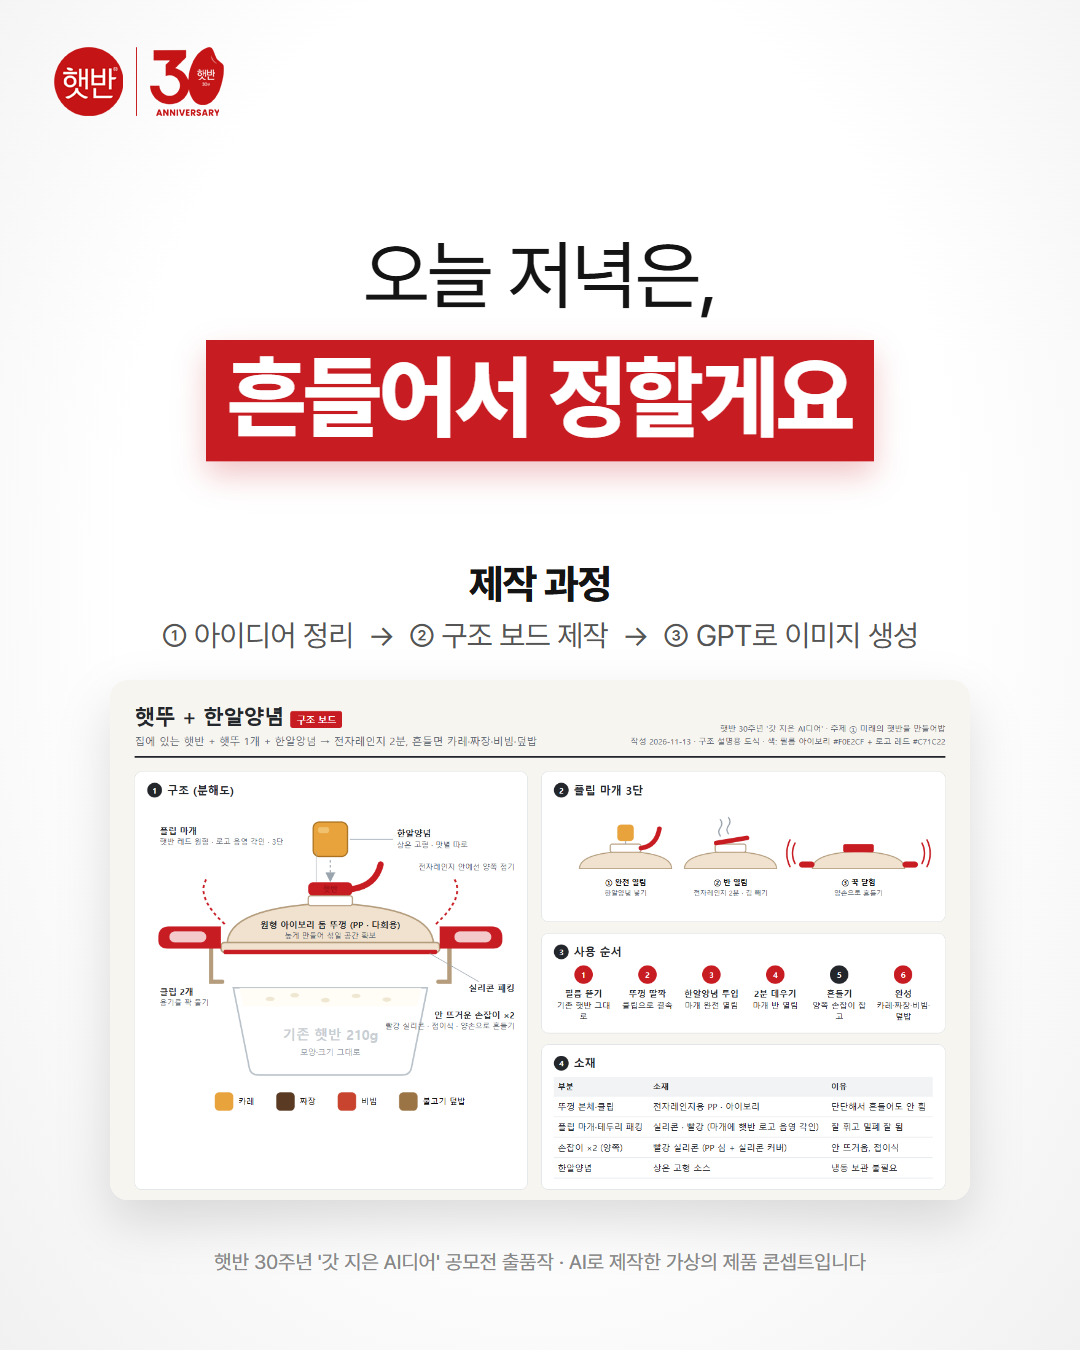
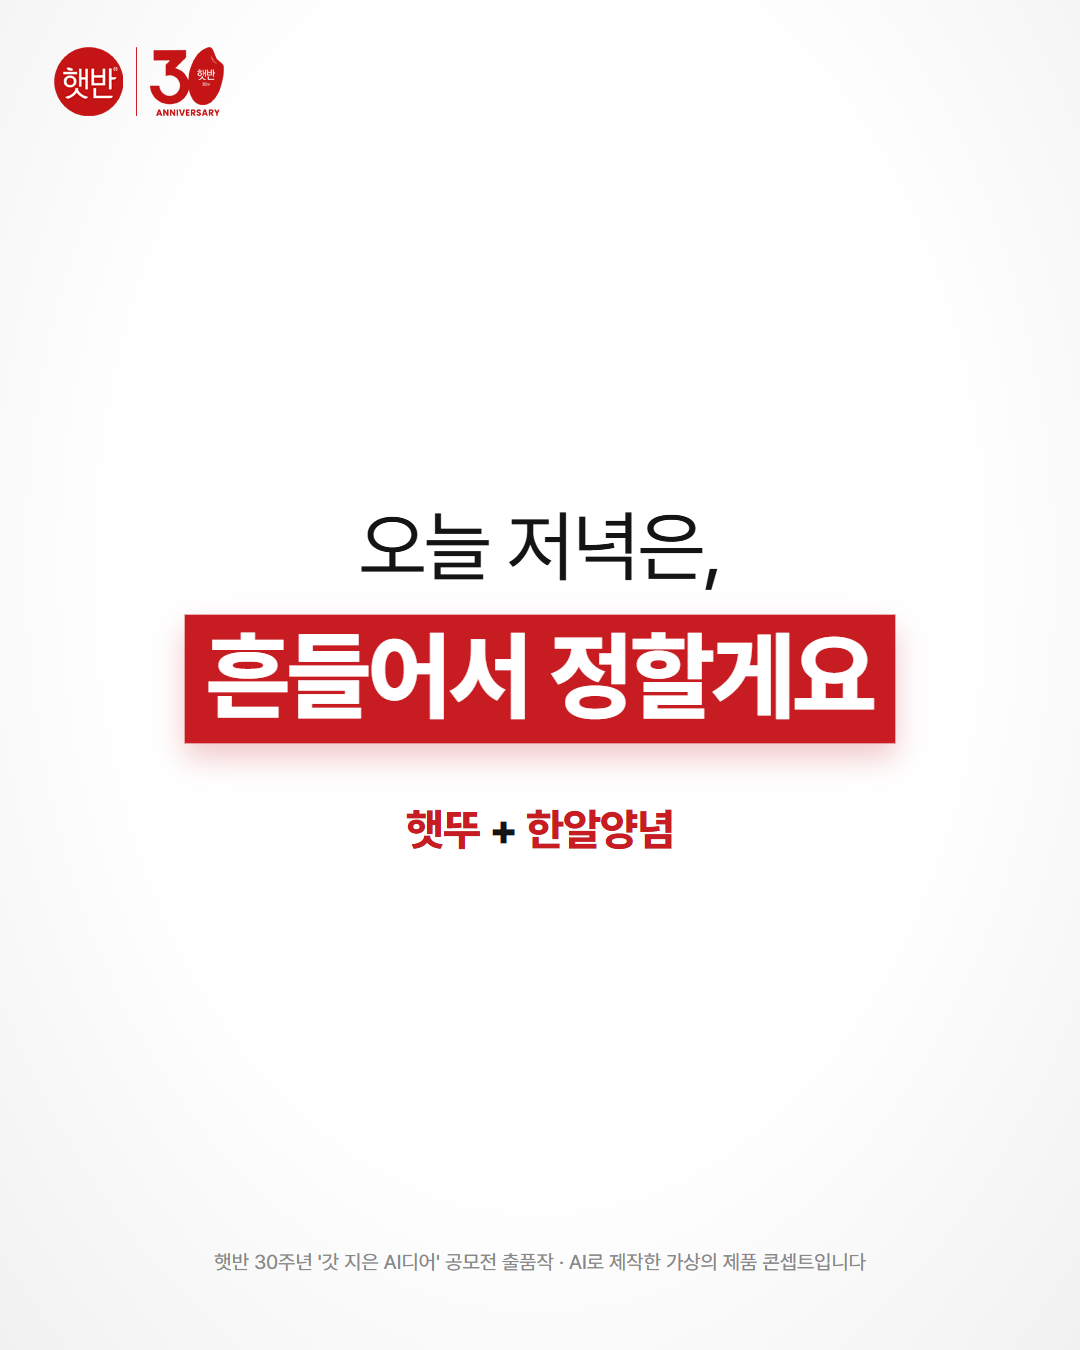
Auto-sync: 2026-11-13 16:56:10

diff --git a/햇반공모전/캐러셀_슬라이드.html b/햇반공모전/캐러셀_슬라이드.html
@@ -75,18 +75,14 @@ body{background:#ddd;font-family:Pretendard,"Malgun Gothic",sans-serif;color:var
   </div>
 </section>
 
-<!-- 12 마무리 + 제작 과정 -->
+<!-- 12 마무리 -->
 <section class="slide" id="s12">
   <div class="logo"><img src="참고이미지/햇반30로고.png"></div>
-  <div class="center" style="top:230px">
-    <div class="h-light" style="font-size:76px">오늘 저녁은,</div>
-    <div style="margin-top:20px"><span class="box" style="font-size:90px">흔들어서 정할게요</span></div>
+  <div class="center" style="top:500px">
+    <div class="h-light" style="font-size:78px">오늘 저녁은,</div>
+    <div style="margin-top:22px"><span class="box" style="font-size:96px">흔들어서 정할게요</span></div>
+    <div class="h-bold" style="font-size:44px;margin-top:60px;letter-spacing:-1px"><span style="color:var(--red)">햇뚜</span> + <span style="color:var(--red)">한알양념</span></div>
   </div>
-  <div class="center" style="top:560px">
-    <div class="h-bold" style="font-size:40px;letter-spacing:-1px">제작 과정</div>
-    <div style="font-size:30px;color:var(--sub);margin-top:10px;letter-spacing:-.5px">① 아이디어 정리 &nbsp;→&nbsp; ② 구조 보드 제작 &nbsp;→&nbsp; ③ GPT로 이미지 생성</div>
-  </div>
-  <div class="board" style="top:680px"><img src="햇반큐브캡_중간컨펌.png"></div>
   <div class="center" style="top:1250px"><span class="cap">햇반 30주년 '갓 지은 AI디어' 공모전 출품작 · AI로 제작한 가상의 제품 콘셉트입니다</span></div>
 </section>
 

diff --git a/햇반공모전/햇반출품1_제미나이.md b/햇반공모전/햇반출품1_제미나이.md
@@ -1,0 +1,52 @@
+# 햇반출품1 제미나이 프롬프트 (P2·P6·P7 다시 뽑기)
+
+- 작성일: 2026-11-13
+- 제미나이는 새 대화라 앞 내용을 모름 → **참고 이미지를 같이 첨부**해서 제품 모양을 맞춤
+- 한 번에 1장씩 요청 (3번 보내기)
+
+## 첨부할 이미지 (매번 같이)
+
+| 순서 | 파일 | 역할 |
+|---|---|---|
+| 이미지 1 | `참고이미지/햇반용기.png` | 햇반 용기 원본 |
+| 이미지 2 | `출품1_이미지/P3.webp` | 햇뚜 + 한알양념 완성 모습 (제품·포장 기준) |
+
+## ① P2 (3번 장: 찬장 컵밥)
+
+```
+실제 카메라로 찍은 상업 제품 사진을 만들어줘. 일러스트·3D 렌더·애니메이션 느낌 없이 사실적으로.
+
+장면: 주방 찬장 한 칸을 실제 마트에서 파는 컵밥 10개 이상이 빽빽하게 채운 모습. 컵밥은 종이 컵 용기 + 투명 플라스틱 뚜껑, 옆면에 음식 사진이 들어간 띠지 디자인. 답답하고 꽉 찬 느낌.
+규칙: 'No.1' 같은 순위 표기, % 숫자, 작은 글씨는 넣지 마. 메뉴 이름 정도의 큰 글자만 허용. 워터마크 없이.
+구도: 세로 4:5. 위쪽 1/3은 흰 여백으로 비워줘(나중에 제목을 넣을 자리).
+```
+
+## ② P6 (8번 장: 4가지 맛 완성)
+
+```
+첨부한 이미지 1은 햇반 용기, 이미지 2는 우리 제품(햇뚜 뚜껑과 한알양념 포장)이야.
+
+실제 음식 사진을 만들어줘. 일러스트나 애니메이션 느낌 없이, 실제 카메라로 찍은 푸드 사진처럼.
+장면: 위에서 내려다본 2×2 구성. 뚜껑을 연 햇반 용기(이미지 1과 같은 모양) 4개에 각각 카레밥, 짜장밥, 고추장 비빔밥, 불고기 덮밥. 전자레인지에 데운 밥에 소스가 골고루 섞인 모습으로, 밥알이 촉촉하고 윤기 있게. 장난감처럼 동글동글한 밥알이나 과하게 선명한 색은 피해줘.
+각 용기 오른쪽 아래에 해당 맛 한알양념 포장 1개. 포장은 이미지 2와 똑같이: 가장자리가 톱니 모양으로 접착된 반투명 컬러 비닐 안에 둥근 원반형 양념이 비쳐 보임(카레 노랑, 짜장 갈색, 고추장 빨강, 불고기 진갈색).
+규칙: 흰 배경, 글자·라벨·워터마크 없이. 세로 4:5. 위쪽 1/3은 흰 여백으로 비워줘.
+```
+
+## ③ P7 (9번 장: 부피 비교)
+
+```
+첨부한 이미지 1은 햇반 용기, 이미지 2는 우리 제품(햇뚜 뚜껑과 한알양념 포장)이야.
+
+실제 제품 사진처럼 사실적으로 만들어줘. 흰 배경, 부드러운 그림자.
+위쪽: 실제 마트에서 파는 컵밥 6개(종이 컵 용기 + 투명 뚜껑, 음식 사진 띠지)를 2줄 3단으로 쌓고, 얇은 점선 상자로 감싸기. 'No.1'·% 숫자·작은 글씨 없이.
+가운데: 아래 방향 화살표.
+아래쪽: 햇반 6개 = 필름 붙은 햇반(이미지 1) 5개를 낮게 쌓은 것 + 이미지 2의 햇뚜를 씌운 햇반 1개. 그 옆에 한알양념 포장 6개. 포장은 이미지 2와 완전히 같게: 가장자리가 톱니 모양으로 접착된 반투명 컬러 비닐 안에 둥근 원반형 양념이 비쳐 보임(카레 노랑, 짜장 갈색, 고추장 빨강, 불고기 진갈색). 네모 큐브나 다른 포장 모양 금지.
+햇뚜 모양은 이미지 2와 똑같이: 원형 아이보리 낮은 돔 뚜껑, 가운데 빨간 원형 플립 마개에 '햇반' 음영 각인, 좌우 빨간 손잡이 2개.
+규칙: 아래쪽 전체가 위쪽 컵밥보다 확실히 작아 보이게. 글자·워터마크 없이. 세로 4:5. 위쪽 여백은 조금(약 15%)만.
+```
+
+## 주의
+
+- 제미나이 무료 버전은 오른쪽 아래에 **반짝이 워터마크**가 찍힐 수 있음 → 받으면 알려주기 (합성할 때 가리거나 잘라낼 수 있음)
+- 공모전은 **상업적 이용 가능한 AI**만 허용 → 제미나이 이미지 약관 확인 필요 (미확인)
+- 제미나이를 쓰면 캡션의 "사용 AI"에 Gemini 추가

diff --git a/햇반공모전/햇반출품1_캡션.md b/햇반공모전/햇반출품1_캡션.md
@@ -1,0 +1,32 @@
+# 햇반출품1 인스타 캡션 (최종)
+
+- 작성일: 2026-11-13
+- 이미지: `출품1_이미지/slide01.png` ~ `slide12.png` 순서대로 업로드 (캐러셀 12장)
+- 필수: **전체 공개**, `@hetbahn.30years` 태그, 해시태그 3개
+
+```
+흔들면, 오늘의 메뉴 🍚
+
+카레 먹을까, 짜장 먹을까?
+컵밥을 종류별로 쟁여두면 찬장이 금방 꽉 차죠.
+
+밥은 이미 집에 있으니까, 필요한 건 맛 한 알.
+그래서 상상했어요. 햇뚜 + 한알양념.
+
+① 필름 떼고 햇뚜 딸깍
+② 마개 열고 한알양념 톡
+③ 마개 반 열고 전자레인지 2분
+④ 꾹 닫고 양쪽 손잡이로 흔들흔들
+⑤ 씻어서 다음 햇반에 또
+
+뚜껑은 한 번, 양념만 바꾸면 끝.
+부피는 줄이고, 맛은 그대로.
+
+햇반 30주년 '갓 지은 AI디어' 공모전 출품작
+주제 ① 미래의 햇반을 만들어밥
+※ AI로 제작한 가상의 제품 콘셉트이며 실제 출시 제품이 아닙니다.
+사용 AI: ChatGPT(이미지 생성)
+
+@hetbahn.30years
+#햇반 #햇반AI공모전 #갓지은아이디어
+```
